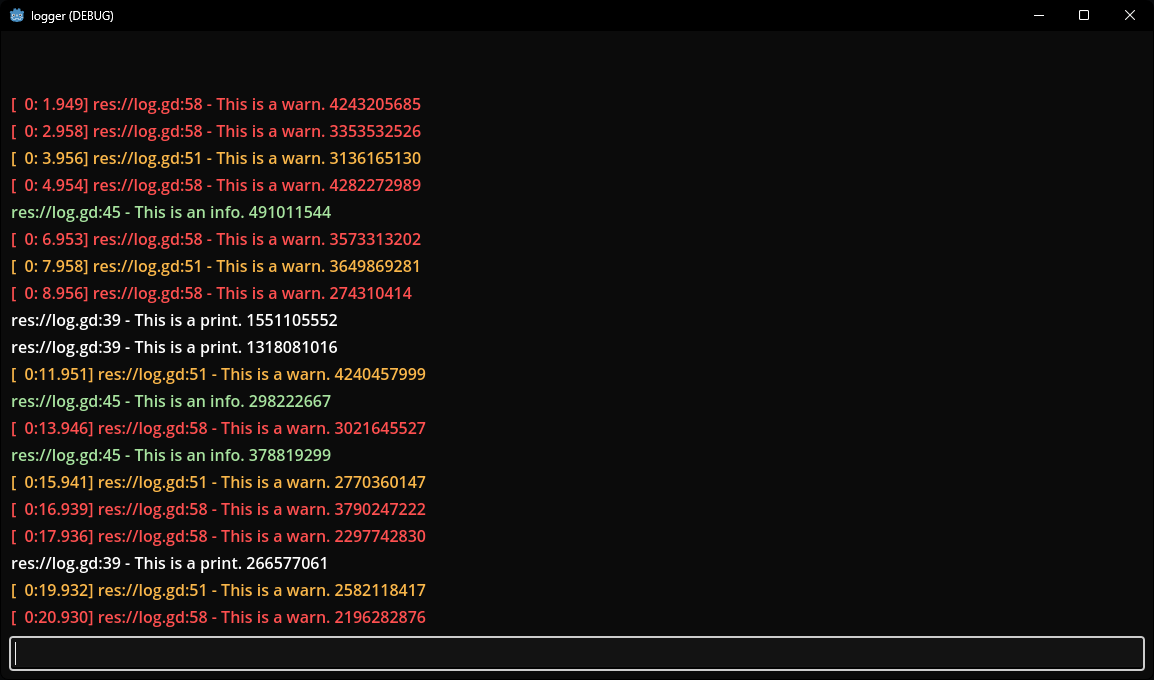
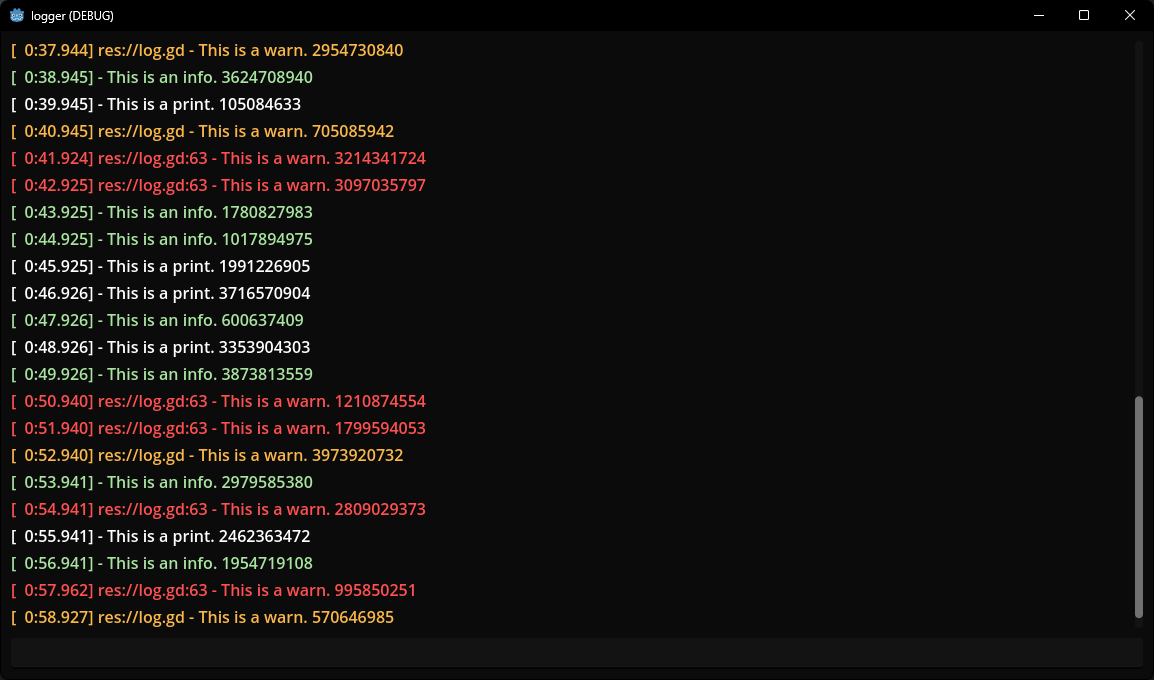
Custom formatting options

Changed region(s): [[0.0, 0.0618, 0.3744, 0.9882], [0.9671, 0.5868, 0.9983, 0.8956], [0.9671, 0.9265, 0.9983, 0.9882]]

diff --git a/README.md b/README.md
@@ -9,7 +9,6 @@ It stores message history to be used as an in game console if you'd like.
 
 Register ```log.gd``` as an Autoload in prject settings. Then, simply call any of the functions to send a message with a given priority.
 
-
 ```
 func Example() -> void:
     ...
@@ -22,6 +21,22 @@ func Example2() -> void:
     Log.Warn("HOLY SHIT!");
     ...
     return;
+```
+
+Use the FORMAT_XXX variables to declare custom message formatting per priority level. The default format for all levels is ```"[{LOG_TIME}] {LOG_STACK} - {LOG_TEXT}"```
+
+The variables are ```FORMAT_PRINT```, ```FORMAT_INFO```, ```FORMAT_WARN```, and ```FORMAT_ERROR```. Each formatting their respective priorities.
+
+The log formatting uses GDScript formatting, so wrap the follwing macros in curly braces to format the string to your desired output.
+
+ - LOG_TIME : Current runtime in MMM:SS.SSS
+ - LOG_STACK : Current frame info as FOLDER/../FOLDER/SOURCE:LINE_NUMBER
+ - LOG_SOURCE : Script source path as FOLDER/../FOLDER/SOURCE
+ - LOG_TEXT : Message text. You want this in every format.
+
+```
+Log.FORMAT_PRINT = "[{LOG_TIME}] - {LOG_TEXT}";
+Log.FORMAT_ERROR = "[{LOG_TIME}] {LOG_STACK} - {LOG_TEXT}";
 ```
 
 The class has one signal, ```on_message```, which dispatches each time any message is sent. You can hook into this to do something with said messages as they come through.
@@ -43,19 +58,19 @@ func OnMessage(item: Log.LogItem) -> void:
 
 ### `Print(content: Variant) -> void`
 
-Takes any argument and stores it as text with a timestamp. Prints this message to the godot console.
+Takes any argument and stores it as text with a PRINT priority. Prints this message to the godot console.
 
 ### `Info(content: Variant) -> void`
 
-Effectively Print(). Takes any argument and stores it as text with a timestamp. Prints this message to the godot console.
+Takes any argument and stores it as text with an INFO priority. Prints this message to the godot console.
 
 ### `Warn(content: Variant) -> void`
 
-Takes any argument and stores it as text with a timestamp and script location. Prints this message to the godot console.
+Takes any argument and stores it as text with a WARN priority. Prints this message to the godot console.
 
 ### `Error(content: Variant) -> void`
 
-Takes any argument and stores it as text with a timestamp and script location. **Prints an error to the godot console.**
+Takes any argument and stores it as text with an ERROR priority. **Prints an error to the godot console.**
 
 ### `GetHistory() -> Array[LogItem]`
 
